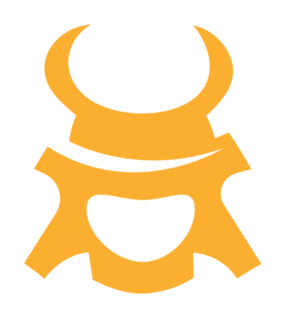
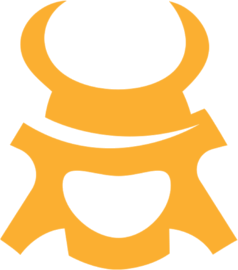
Add Swarmauri horizontal brand assets

Changed region(s): [[0.0, 0.0, 1.0, 1.0]]

diff --git a/src/App.tsx b/src/App.tsx
@@ -29,7 +29,7 @@ function SiteChrome({ children }: { children: React.ReactNode }) {
     <div className="site-shell">
       <header className="site-header">
         <a className="site-brand" href="/" aria-label="Swarmauri home">
-          <img src="/assets/brand/swarmauri/swarmauri-head-orange.png" alt="Swarmauri" />
+          <img src="/assets/brand/swarmauri/swarmauri-brand-horizontal.png" alt="Swarmauri" />
         </a>
         <nav aria-label="Primary navigation">
           <a href="https://github.com/swarmauri/swarmauri-sdk">GitHub</a>

diff --git a/src/styles.css b/src/styles.css
@@ -46,8 +46,8 @@ footer {
 
 .site-brand img {
   display: block;
-  width: 42px;
-  height: auto;
+  width: auto;
+  height: 42px;
 }
 
 .site-header nav,
